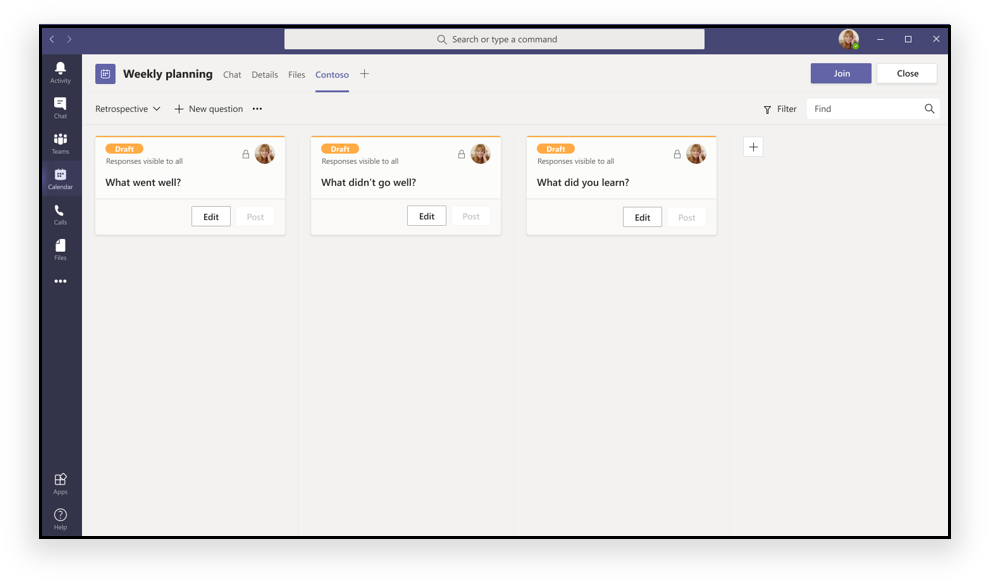
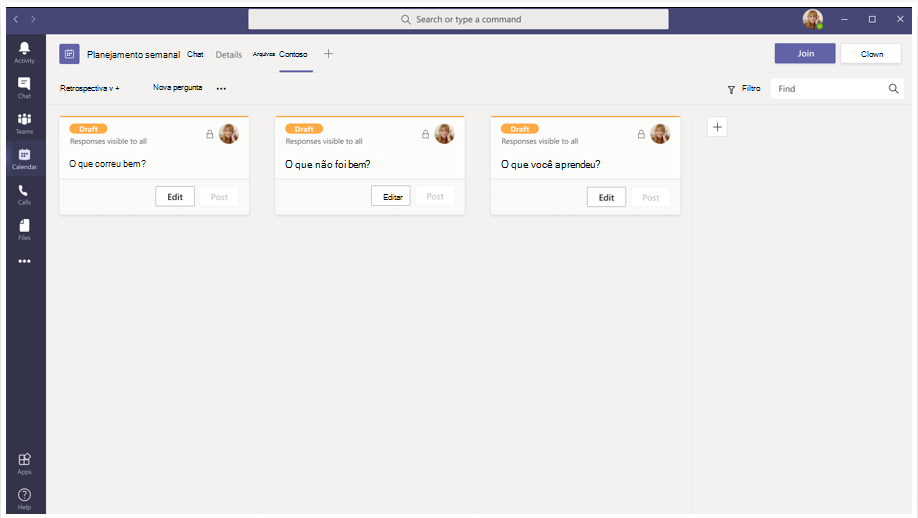
commit translated contents

Changed region(s): [[0.0, 0.0, 1.0, 1.0], [0.305, 0.2162, 0.732, 0.4015], [0.183, 0.3398, 0.244, 0.4015]]

diff --git a/msteams-platform/toolkit/create-new-project.md b/msteams-platform/toolkit/create-new-project.md
@@ -1,47 +1,51 @@
 ---
-title: Criar novo Teams usando Teams Toolkit
+title: Criar um novo aplicativo de Equipes usando o Kit de Ferramentas do Teams
 author: zyxiaoyuer
-description: Criar novo Teams usando Teams Toolkit
-ms.author: zhany
-ms.localizationpriority: medium
+description: Criar novo aplicativo de Equipes usando o Kit de Ferramentas do Teams
+ms.author: surbhigupta
+ms.localizationpriority: high
 ms.topic: overview
-ms.date: 11/29/2021
-ms.openlocfilehash: bac67621e14d12b61b04eac3ec24c90cb3057a79
-ms.sourcegitcommit: 8a0ffd21c800eecfcd6d1b5c4abd8c107fcf3d33
-ms.translationtype: MT
+ms.date: 03/14/2022
+ms.openlocfilehash: 1c4b219ed4f664e92d144b18c7aa3734c79c0c61
+ms.sourcegitcommit: ca902f505a125641c379a917ee745ab418bd1ce6
+ms.translationtype: HT
 ms.contentlocale: pt-BR
-ms.lasthandoff: 03/12/2022
-ms.locfileid: "63452554"
+ms.lasthandoff: 03/14/2022
+ms.locfileid: "63464263"
 ---
-# <a name="create-new-teams-project-using-teams-toolkit"></a>Criar um novo Teams usando Teams Toolkit
+# <a name="create-a-new-teams-app-using-teams-toolkit"></a>Criar um novo aplicativo de Equipes usando o Kit de Ferramentas do Teams
 
-Para criar um novo Teams usando Teams Toolkit, selecione Criar um novo projeto Teams **aplicativo** ou **Iniciar a partir de um exemplo**.
+Para criar um novo aplicativo de Equipes usando o Kit de Ferramentas do Teams, você pode selecionar uma das seguintes opções:
 
-## <a name="create-new-project"></a>Criar novo projeto
+* [Criar um novo aplicativo do Teams](create-new-project.md#create-a-new-teams-app)
+* [Exibir amostras](create-new-project.md#create-a-new-teams-app-using-view-samples)
 
-Os guias a seguir ajudam você a criar um novo projeto Teams aplicativo usando Teams Toolkit:
+### <a name="create-a-new-teams-app"></a>Criar um novo aplicativo do Teams
 
-* [Criar novo Teams aplicativo Tab (React)](/microsoftteams/platform/sbs-gs-javascript?tabs=vscode%2Cvsc%2Cviscode%2Cvcode&tutorial-step=2)
-* [Criar novo aplicativo Teams Bot](/microsoftteams/platform/sbs-gs-spfx?tabs=vscode%2Cviscode&branch)
-* [Criar novo aplicativo de Extensão de Mensagem](/microsoftteams/platform/sbs-gs-javascript?tabs=vscode%2Cvsc%2Cviscode%2Cvcode&tutorial-step=6&branch)
-* [Criar novo Teams guia (Estrutura do SharePoint)](/microsoftteams/platform/sbs-gs-spfx?tabs=vscode%2Cviscode&branch)
+1. Abra o Visual Studio Code.
+1. Selecione o ícone do Kit de Ferramentas do Teams:::image type="icon" source="../assets/images/teams-toolkit-v2/teams-toolkit-sidebar-icon.PNG" border="true"::: na barra Visual Studio Code lateral.
+1. Selecione **Criar um novo aplicativo do Teams**.
+1. Selecione na guia de recursos disponíveis, bot, extensão de mensagens ou uma guia usando a Estrutura do SharePoint (SPFx). 
+1. Selecione pelo menos uma opção para começar a criar o aplicativo Teams.
 
-## <a name="create-from-samples"></a>Criar a partir de exemplos
+### <a name="create-a-new-teams-app-using-view-samples"></a>Criar um novo aplicativo do Teams usando exemplos de exibição
 
- Você pode criar um novo projeto na **galeria de exemplos**. Selecione o exemplo necessário para criar aplicativos. As etapas a seguir orientam você a criar aplicativos a partir de exemplos:
+Você pode criar um novo aplicativo explorando **Exibir amostras** e selecionando uma amostra existente. O exemplo selecionado já pode ter alguma funcionalidade, por exemplo, uma lista de tarefas com um back-end do Azure ou uma integração com o Kit de ferramentas do Microsoft Graph.
 
- 1. Abra **Teams Toolkit** código Microsoft Visual Studio código.
- 1. Selecione **A seção DESENVOLVIMENTO** no Tree View.
- 1. Selecione **Exibir exemplos**. A galeria de exemplo aparece conforme mostrado na imagem a seguir:
+ 1. Abra o **Kit de ferramentas do Teams** do Microsoft Visual Studio Code.
+ 1. Selecione a seção **DESENVOLVIMENTO** em Treeview.
+ 1. Selecione **Exibir amostras**. A galeria de amostra aparece conforme mostrado na imagem a seguir:
 
-    :::image type="content" source="../assets/images/teams-toolkit-v2/manual/view samples.png" alt-text="samples":::
+    :::image type="content" source="../assets/images/teams-toolkit-v2/view-samples.png" alt-text="Exibir amostras":::
 
-Você pode explorar e baixar amostras e executar aplicativos localmente ou remotamente para visualização Teams cliente Web. Siga as instruções de cada exemplo ou navegue pelo código-fonte de exemplos selecionando **Exibir** no GitHub para acessar o repo de código aberto para amostras.
+Você pode explorar e baixar amostras e executar seu aplicativo local ou remotamente para visualizar no cliente Web do Teams. Siga as instruções para cada amostra ou selecione **Exibir no GitHub** para abrir a amostra no `TeamsFx Samples repository` e navegar pelo código-fonte.
+
+Para obter mais informações, [Criar um novo aplicativo guia do Teams (React)](/microsoftteams/platform/sbs-gs-javascript?tabs=vscode%2Cvsc%2Cviscode%2Cvcode&tutorial-step=2).
 
 ## <a name="see-also"></a>Confira também
 
 * [Provisionar recursos de nuvem](provision.md)
 * [Implantar o aplicativo Teams na nuvem](deploy.md)
-* [Publicar seu Teams app](TeamsFx-collaboration.md)
+* [Publicar seu aplicativo Teams](TeamsFx-collaboration.md)
 * [Gerenciar vários ambientes](TeamsFx-multi-env.md)
-* [Colaborar com outros desenvolvedores no Teams projeto](TeamsFx-collaboration.md)
+* [Colaborar com outros desenvolvedores no projeto do Teams](TeamsFx-collaboration.md)
